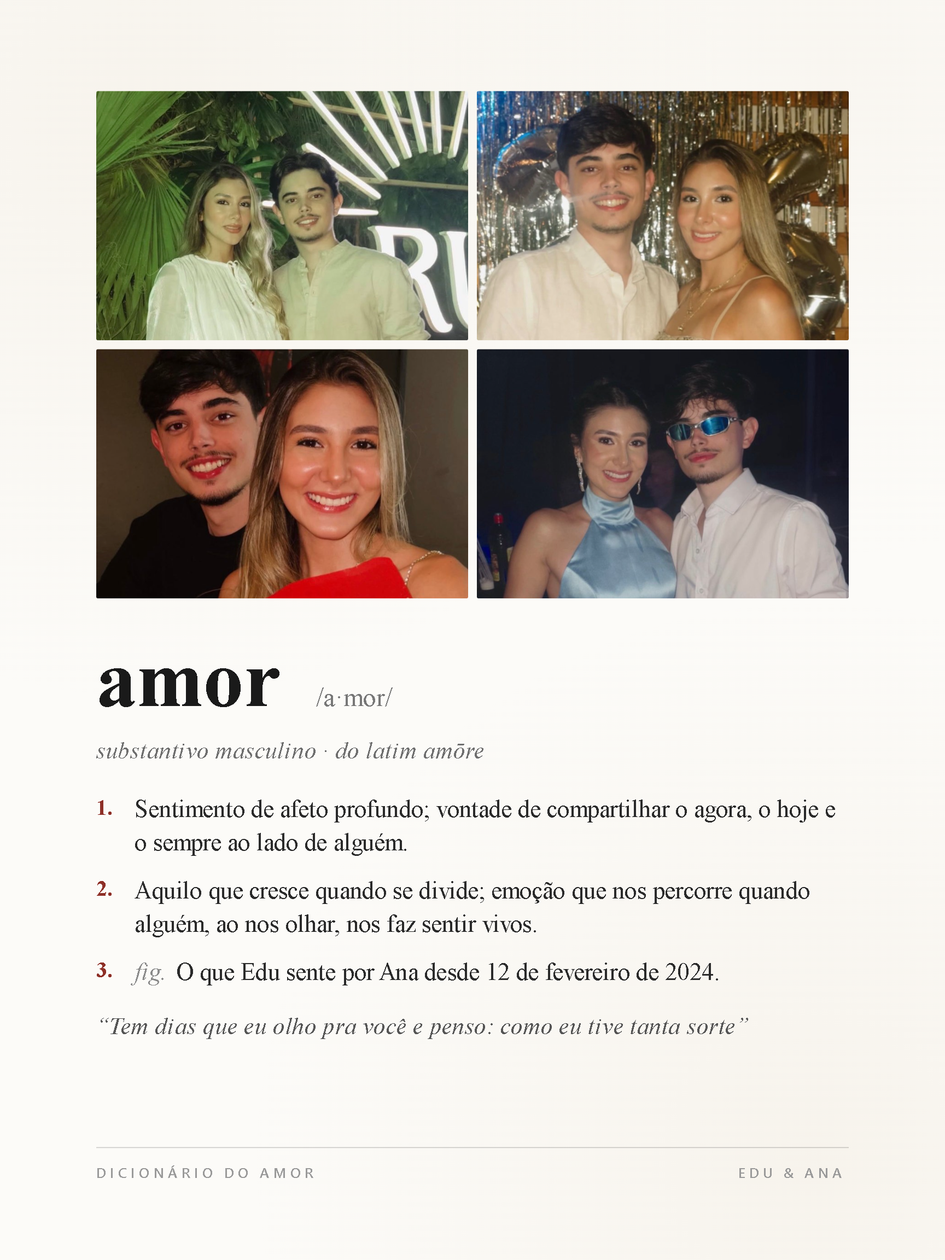
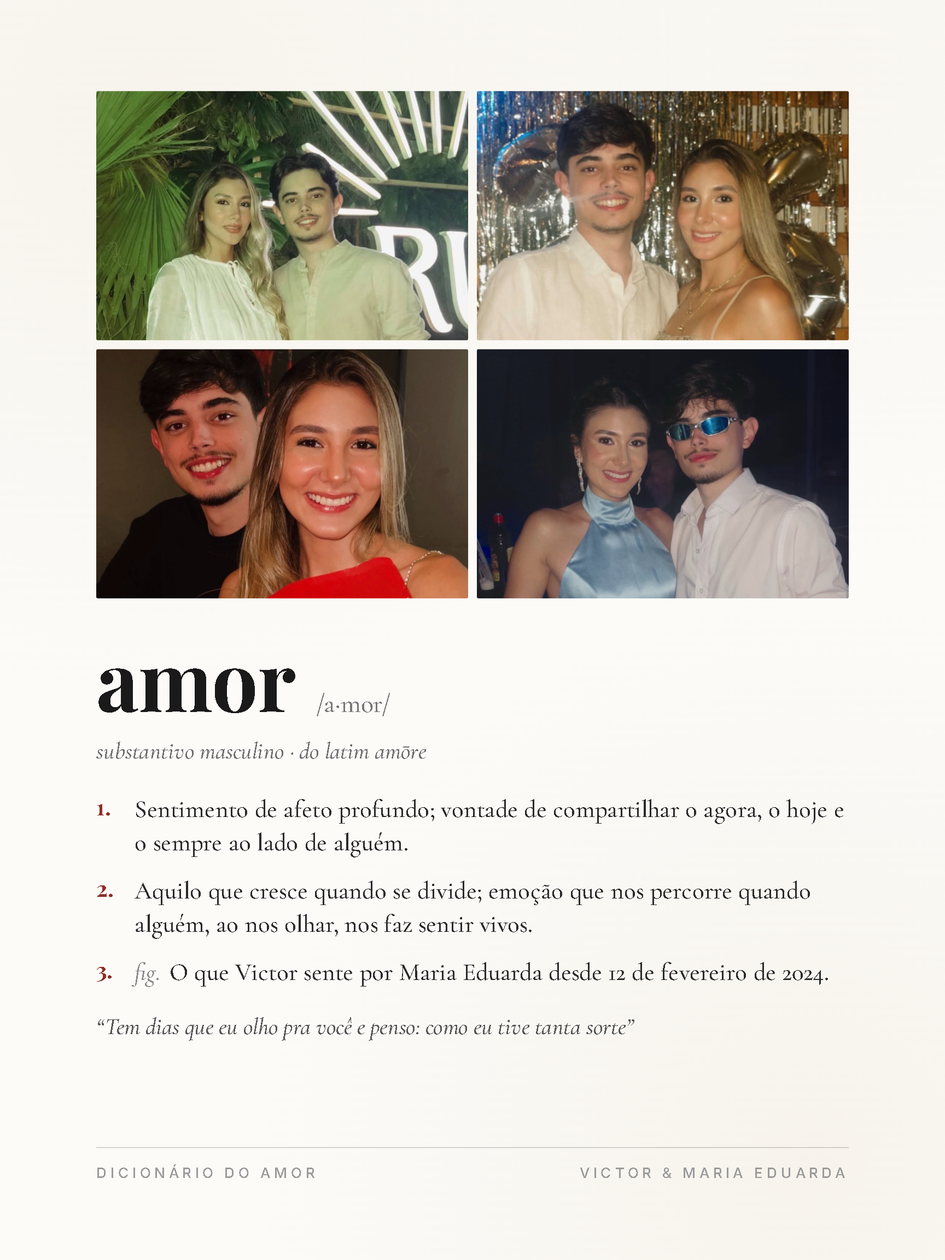
Personalizar o álbum para Victor e Maria Eduarda

diff --git a/_next/static/immutable/chunks/1nydtlq8dhacj.js b/_next/static/immutable/chunks/1nydtlq8dhacj.js
@@ -1,1 +1,1 @@
-(globalThis.TURBOPACK||(globalThis.TURBOPACK=[])).push([document.currentScript,796051,e=>{"use strict";var t=e.i(843476);e.i(271645);var r=e.i(772328);let i="#FBEFE2",n="#E0BC6A";e.s(["default",0,function(e){let{coupleName:a,year:o}=e,l=(a||"").trim(),s=o||new Date().getFullYear(),c=(0,r.useReducedMotion)(),u=e=>c?void 0:`lpcov-rise 0.9s cubic-bezier(0.22,0.61,0.36,1) ${e}s both`;return(0,t.jsxs)("div",{style:{position:"absolute",inset:0,pointerEvents:"none"},"aria-hidden":"true",children:[!c&&(0,t.jsx)("style",{children:"@keyframes lpcov-rise{from{opacity:0;transform:translateY(18px)}to{opacity:1;transform:translateY(0)}}@keyframes lpcov-rule{from{opacity:0;transform:scaleX(0)}to{opacity:1;transform:scaleX(1)}}@keyframes lpcov-glint{0%{transform:translateX(-100%)}55%{transform:translateX(260%)}100%{transform:translateX(260%)}}"}),(0,t.jsxs)("div",{style:{position:"absolute",top:"10.5%",left:0,right:0,display:"flex",flexDirection:"column",alignItems:"center",animation:u(.15)},children:[(0,t.jsx)("div",{style:{fontFamily:"'Inter', system-ui, sans-serif",fontSize:31,fontWeight:600,letterSpacing:"0.26em",marginRight:"-0.26em",textTransform:"uppercase",color:i,textAlign:"center",whiteSpace:"nowrap",textShadow:"0 1px 12px rgba(0,0,0,0.35)"},children:"O álbum da nossa história"}),(0,t.jsx)("span",{style:{position:"relative",overflow:"hidden",width:64,height:2,marginTop:15,opacity:.92,borderRadius:2,background:n,animation:c?void 0:"lpcov-rule 0.7s cubic-bezier(0.22,0.61,0.36,1) 0.55s both"},children:!c&&(0,t.jsx)("span",{style:{position:"absolute",top:0,bottom:0,left:0,width:"40%",background:`linear-gradient(90deg, ${n}00 0%, #FFF4D8 50%, ${n}00 100%)`,transform:"translateX(-100%)",animation:"lpcov-glint 7s ease-in-out 1.4s infinite"}})})]}),(0,t.jsx)("div",{style:{position:"absolute",left:0,right:0,bottom:0,height:"32%",background:"linear-gradient(to top, rgba(26,6,11,0.74) 4%, rgba(26,6,11,0.4) 46%, rgba(26,6,11,0) 100%)"}}),(0,t.jsxs)("div",{style:{position:"absolute",bottom:"5.5%",left:0,right:0,display:"flex",flexDirection:"column",alignItems:"center"},children:[l&&(0,t.jsx)("div",{style:{fontFamily:"'Cormorant Garamond', Georgia, serif",fontStyle:"italic",fontWeight:500,fontSize:80,lineHeight:1,color:i,textAlign:"center",paddingBottom:6,textShadow:"0 2px 16px rgba(0,0,0,0.45)",animation:u(.4)},children:l}),(0,t.jsxs)("div",{style:{display:"flex",alignItems:"center",gap:18,marginTop:20*!!l,animation:u(.62)},children:[(0,t.jsx)("span",{style:{width:38,height:1.5,background:n,opacity:.8}}),(0,t.jsx)("span",{style:{fontFamily:"'Bebas Neue', 'Oswald', sans-serif",fontSize:40,letterSpacing:"0.4em",marginRight:"-0.4em",color:n,fontVariantNumeric:"tabular-nums",textShadow:"0 1px 10px rgba(0,0,0,0.45)"},children:s}),(0,t.jsx)("span",{style:{width:38,height:1.5,background:n,opacity:.8}})]})]})]})}],796051)},166641,e=>{"use strict";let t={zoom:1,x:.5,y:.5};e.s(["COVER_BG",0,"#1a060b","DEFAULT_COVER_TRANSFORM",0,t,"REF_H",0,1527,"REF_W",0,1080,"coverPhotoRect",0,function(e,r,i,n,a){let o={...t,...a||{}},l=i||1,s=n||1,c=Math.max(e/l,r/s)*(o.zoom||1),u=l*c,d=s*c,h=e-u,g=r-d;return{width:u,height:d,left:(o.x??.5)*h,top:(o.y??.5)*g,rangeX:h,rangeY:g}}])},200916,e=>{"use strict";e.s(["loadCanvasImage",0,function(e){let{timeoutMs:t=0,proxy:r=!0}=arguments.length>1&&void 0!==arguments[1]?arguments[1]:{};return new Promise((i,n)=>{let a=!1,o=t?setTimeout(()=>{a=!0,n(Error("image timeout"))},t):0,l=(e,t)=>{a||(a=!0,clearTimeout(o),e?n(e):i(t))},s=(e,t)=>new Promise((r,i)=>{let n=new Image;t&&(n.crossOrigin="anonymous"),n.decoding="async",n.onload=()=>r(n),n.onerror=e=>i(e),n.src=e});"string"==typeof e&&/^https?:/i.test(e)?(async()=>{try{let t=await fetch(e,{mode:"cors",cache:"no-store",credentials:"omit"});if(!t.ok)throw Error(`HTTP ${t.status}`);let r=await t.blob(),i=URL.createObjectURL(r);try{let e=await s(i,!1);l(null,e)}finally{setTimeout(()=>URL.revokeObjectURL(i),0)}}catch(t){if(a)return;if(!r)return l(t);try{let t=await s(`/api/proxy-image?url=${encodeURIComponent(e)}`,!1);l(null,t)}catch(e){l(e)}}})():s(e,!/^(data|blob):/i.test(String(e))).then(e=>l(null,e),e=>l(e))})}])},616147,e=>{"use strict";var t=e.i(801431),r=e.i(370341),i=e.i(349165);let n=e=>(0,i.cdnUrl)(t.default[e]||e),a=e=>(0,i.cdnUrl)(r.default[e]||t.default[e]||e),o=a("/album/pages/1.png"),l=n("/album/pages/2.png"),s=a("/album/pages/10.png"),c=n("/album/bookCoverOverlay.jpg"),u=n("/album/bookOpenOverlay.jpg");e.s(["BACK_SRC",0,s,"COVER_OVERLAY",0,c,"COVER_SRC",0,o,"OPEN_OVERLAY",0,u,"PAGE_2_SRC",0,l,"albumDisplayImage",0,a,"albumImage",0,n])},370341,(e,t,r)=>{t.exports={"/album/pages/1.png":"/images/generated/v1/0cfeee3df7770b063efe2a69.webp","/album/pages/10.png":"/images/generated/v1/571676c4a112a60fe766f038.webp","/album/pages/2.png":"/images/generated/v1/57f60bcc16bc0d8c4d399310.webp","/album/placeholder":"/images/generated/v1/f9f2fb6deda9c474941d078c.webp"}},959998,e=>{"use strict";var t=e.i(843476),r=e.i(271645);let i=(0,e.i(323272).noiseTile)({size:220,rgb:[186,186,186],mean:4.025,sd:.9450000000000001,seed:0x51f15eed}),n="radial-gradient(120% 90% at 50% 46%, rgba(0,0,0,0) 48%, rgba(0,0,0,0.55) 100%)";function a(e){let{color:i,style:n,strength:a=1}=e,[o,s]=(0,r.useState)(()=>({a:i,b:null,top:"a"})),[c,u]=(0,r.useState)(i);i!==c&&(u(i),s(e=>"a"===e.top?{a:e.a,b:i,top:"b"}:{a:i,b:e.b,top:"a"}));let d=(e,r)=>(0,t.jsx)("div",{"aria-hidden":"true",style:{position:"absolute",left:0,top:0,width:"25%",height:"25%",transform:"scale(4)",transformOrigin:"0 0",borderRadius:"50%",background:e?`radial-gradient(closest-side, ${l(e,.62)} 0%, ${l(e,.36)} 45%, ${l(e,.1)} 75%, ${l(e,0)} 100%)`:"none",opacity:e&&r?a:0,transition:"opacity 1.6s cubic-bezier(.4,0,.2,1)"}});return(0,t.jsxs)("div",{"aria-hidden":"true",style:{position:"absolute",pointerEvents:"none",...n},children:[d(o.a,"a"===o.top),d(o.b,"b"===o.top)]})}let o=new Map;function l(e,t){let r=o.get(e);if(!r){let i=/^#?([0-9a-f]{6})$/i.exec(String(e||""));if(!i)return`rgba(0,0,0,${t})`;let n=parseInt(i[1],16),a=(n>>16&255)/255,l=(n>>8&255)/255,s=(255&n)/255,c=Math.max(a,l,s),u=Math.min(a,l,s),d=(c+u)/2,h=c-u,g=0,f=0===h?0:h/(1-Math.abs(2*d-1));h&&(g=(c===a?((l-s)/h+6)%6:c===l?(s-a)/h+2:(a-l)/h+4)*60);let p=Math.min(.62,Math.max(.5,d)),m=(1-Math.abs(2*p-1))*Math.min(.62,Math.max(.25,f)),v=m*(1-Math.abs(g/60%2-1)),b=p-m/2,[y,w,R]=g<60?[m,v,0]:g<120?[v,m,0]:g<180?[0,m,v]:g<240?[0,v,m]:g<300?[v,0,m]:[m,0,v];r=[y,w,R].map(e=>Math.round((e+b)*255)).join(","),o.set(e,r)}return`rgba(${r},${t})`}e.s(["STAGE",0,{base:"#120b0d",text:"#EFE6DA",muted:"rgba(239,230,218,0.58)",faint:"rgba(239,230,218,0.2)",accent:"#D3B27A",gold:"#D3B27A",goldDeep:"#9C7F4E"},"UI_FONT",0,"var(--font-manrope), 'Manrope', system-ui, -apple-system, 'Segoe UI', sans-serif","default",0,function(e){let{glow:o,open:l,mobile:s}=e,{left:c,right:u,center:d}=o||{},[h]=(0,r.useState)(()=>Math.min(3,Math.max(1,Math.round(window.devicePixelRatio||1))));return(0,t.jsxs)("div",{"aria-hidden":"true",style:{position:"absolute",inset:0,zIndex:0,pointerEvents:"none",overflow:"hidden"},children:[(0,t.jsx)("div",{style:{position:"absolute",inset:0,background:"radial-gradient(115% 85% at 50% 45%, #2a171c 0%, #1a0e12 46%, #0b0608 100%)"}}),(0,t.jsx)(a,{color:d,strength:.4,style:{left:"50%",top:"50%",width:s?"150vw":"74vw",height:s?"84vh":"96vh",transform:"translate(-50%, -52%)"}}),!s&&(0,t.jsx)(a,{color:c,strength:.34,style:{left:"31%",top:"50%",width:"52vw",height:"92vh",transform:"translate(-50%, -52%)"}}),!s&&(0,t.jsx)(a,{color:u,strength:.34,style:{left:"69%",top:"50%",width:"52vw",height:"92vh",transform:"translate(-50%, -52%)"}}),(0,t.jsx)("div",{style:{position:"absolute",left:"50%",top:"50%",width:`calc(${s?"150vw":l?"96vw":"66vw"} / 4)`,height:`calc(${s?"70vh":"90vh"} / 4)`,transformOrigin:"0 0",transform:"translate(-200%, -192%) scale(4)",background:"radial-gradient(closest-side, rgba(255,226,200,0.07) 0%, rgba(255,226,200,0.025) 55%, rgba(255,226,200,0) 100%)",transition:"width 1.1s cubic-bezier(.22,1,.36,1)"}}),(0,t.jsx)("div",{style:{position:"absolute",left:0,top:0,width:`${(100/h).toFixed(4)}%`,height:`${(100/h).toFixed(4)}%`,transform:h>1?`scale(${h})`:void 0,transformOrigin:"0 0",backgroundImage:i?`${n}, ${i}`:n,backgroundSize:i?`100% 100%, ${220/h}px ${220/h}px`:"100% 100%",backgroundRepeat:i?"no-repeat, repeat":"no-repeat"}})]})}])},89786,e=>{"use strict";var t=e.i(271645),r=e.i(198702);let i=/Instagram|FBAN|FBAV|FB_IAB|FBIOS|TikTok|musical_ly|BytedanceWebview|ByteLocale|Snapchat|LinkedInApp|Pinterest|Line\//i;function n(){let e=arguments.length>0&&void 0!==arguments[0]?arguments[0]:"u"<typeof navigator?"":navigator.userAgent||"";return i.test(e)||(0,r.needsCanvasVideo)()}e.s(["isHostedBrowser",0,n,"useSwipeGuard",0,function(e){(0,t.useEffect)(()=>{let t=null==e?void 0:e.current;if(!t||!(navigator.maxTouchPoints>0||"ontouchstart"in window)||!n())return;let r=document.documentElement,i=r.style.overscrollBehaviorX;r.style.overscrollBehaviorX="none";let a=null,o=e=>{let t=e.touches[0];a=t?{x:t.clientX,y:t.clientY}:null,t&&e.cancelable&&!(e.target instanceof Element&&e.target.closest("button, a, input, select, textarea, label, [role='switch'], [role='tab']"))&&function(e,t){let r=arguments.length>2&&void 0!==arguments[2]?arguments[2]:32;return t>0&&(e<=r||e>=t-r)}(t.clientX,window.innerWidth)&&e.preventDefault()},l=e=>{let t=e.touches[0];a&&t&&e.cancelable&&function(e,t,r,i){let n=arguments.length>4&&void 0!==arguments[4]?arguments[4]:6,a=Math.abs(r-e);return a>=n&&a>Math.abs(i-t)}(a.x,a.y,t.clientX,t.clientY)&&e.preventDefault()},s=()=>{a=null};return t.addEventListener("touchstart",o,{passive:!1}),t.addEventListener("touchmove",l,{passive:!1}),t.addEventListener("touchend",s),t.addEventListener("touchcancel",s),()=>{t.removeEventListener("touchstart",o),t.removeEventListener("touchmove",l),t.removeEventListener("touchend",s),t.removeEventListener("touchcancel",s),r.style.overscrollBehaviorX=i}},[e])}])}]);
+(globalThis.TURBOPACK||(globalThis.TURBOPACK=[])).push([document.currentScript,796051,e=>{"use strict";var t=e.i(843476);e.i(271645);var r=e.i(772328);let i="#FBEFE2",n="#E0BC6A";e.s(["default",0,function(e){let{coupleName:a,year:o}=e,l=(a||"").trim(),s=o||new Date().getFullYear(),c=(0,r.useReducedMotion)(),u=e=>c?void 0:`lpcov-rise 0.9s cubic-bezier(0.22,0.61,0.36,1) ${e}s both`;return(0,t.jsxs)("div",{style:{position:"absolute",inset:0,pointerEvents:"none"},"aria-hidden":"true",children:[!c&&(0,t.jsx)("style",{children:"@keyframes lpcov-rise{from{opacity:0;transform:translateY(18px)}to{opacity:1;transform:translateY(0)}}@keyframes lpcov-rule{from{opacity:0;transform:scaleX(0)}to{opacity:1;transform:scaleX(1)}}@keyframes lpcov-glint{0%{transform:translateX(-100%)}55%{transform:translateX(260%)}100%{transform:translateX(260%)}}"}),(0,t.jsxs)("div",{style:{position:"absolute",top:"10.5%",left:0,right:0,display:"flex",flexDirection:"column",alignItems:"center",animation:u(.15)},children:[(0,t.jsx)("div",{style:{fontFamily:"'Inter', system-ui, sans-serif",fontSize:31,fontWeight:600,letterSpacing:"0.26em",marginRight:"-0.26em",textTransform:"uppercase",color:i,textAlign:"center",whiteSpace:"nowrap",textShadow:"0 1px 12px rgba(0,0,0,0.35)"},children:"O álbum da nossa história"}),(0,t.jsx)("span",{style:{position:"relative",overflow:"hidden",width:64,height:2,marginTop:15,opacity:.92,borderRadius:2,background:n,animation:c?void 0:"lpcov-rule 0.7s cubic-bezier(0.22,0.61,0.36,1) 0.55s both"},children:!c&&(0,t.jsx)("span",{style:{position:"absolute",top:0,bottom:0,left:0,width:"40%",background:`linear-gradient(90deg, ${n}00 0%, #FFF4D8 50%, ${n}00 100%)`,transform:"translateX(-100%)",animation:"lpcov-glint 7s ease-in-out 1.4s infinite"}})})]}),(0,t.jsx)("div",{style:{position:"absolute",left:0,right:0,bottom:0,height:"32%",background:"linear-gradient(to top, rgba(26,6,11,0.74) 4%, rgba(26,6,11,0.4) 46%, rgba(26,6,11,0) 100%)"}}),(0,t.jsxs)("div",{style:{position:"absolute",bottom:"5.5%",left:0,right:0,display:"flex",flexDirection:"column",alignItems:"center"},children:[l&&(0,t.jsx)("div",{style:{fontFamily:"'Cormorant Garamond', Georgia, serif",fontStyle:"italic",fontWeight:500,fontSize:52,lineHeight:1.1,color:i,textAlign:"center",whiteSpace:"nowrap",paddingBottom:6,textShadow:"0 2px 16px rgba(0,0,0,0.45)",animation:u(.4)},children:l}),(0,t.jsxs)("div",{style:{display:"flex",alignItems:"center",gap:18,marginTop:20*!!l,animation:u(.62)},children:[(0,t.jsx)("span",{style:{width:38,height:1.5,background:n,opacity:.8}}),(0,t.jsx)("span",{style:{fontFamily:"'Bebas Neue', 'Oswald', sans-serif",fontSize:40,letterSpacing:"0.4em",marginRight:"-0.4em",color:n,fontVariantNumeric:"tabular-nums",textShadow:"0 1px 10px rgba(0,0,0,0.45)"},children:s}),(0,t.jsx)("span",{style:{width:38,height:1.5,background:n,opacity:.8}})]})]})]})}],796051)},166641,e=>{"use strict";let t={zoom:1,x:.5,y:.5};e.s(["COVER_BG",0,"#1a060b","DEFAULT_COVER_TRANSFORM",0,t,"REF_H",0,1527,"REF_W",0,1080,"coverPhotoRect",0,function(e,r,i,n,a){let o={...t,...a||{}},l=i||1,s=n||1,c=Math.max(e/l,r/s)*(o.zoom||1),u=l*c,d=s*c,h=e-u,g=r-d;return{width:u,height:d,left:(o.x??.5)*h,top:(o.y??.5)*g,rangeX:h,rangeY:g}}])},200916,e=>{"use strict";e.s(["loadCanvasImage",0,function(e){let{timeoutMs:t=0,proxy:r=!0}=arguments.length>1&&void 0!==arguments[1]?arguments[1]:{};return new Promise((i,n)=>{let a=!1,o=t?setTimeout(()=>{a=!0,n(Error("image timeout"))},t):0,l=(e,t)=>{a||(a=!0,clearTimeout(o),e?n(e):i(t))},s=(e,t)=>new Promise((r,i)=>{let n=new Image;t&&(n.crossOrigin="anonymous"),n.decoding="async",n.onload=()=>r(n),n.onerror=e=>i(e),n.src=e});"string"==typeof e&&/^https?:/i.test(e)?(async()=>{try{let t=await fetch(e,{mode:"cors",cache:"no-store",credentials:"omit"});if(!t.ok)throw Error(`HTTP ${t.status}`);let r=await t.blob(),i=URL.createObjectURL(r);try{let e=await s(i,!1);l(null,e)}finally{setTimeout(()=>URL.revokeObjectURL(i),0)}}catch(t){if(a)return;if(!r)return l(t);try{let t=await s(`/api/proxy-image?url=${encodeURIComponent(e)}`,!1);l(null,t)}catch(e){l(e)}}})():s(e,!/^(data|blob):/i.test(String(e))).then(e=>l(null,e),e=>l(e))})}])},616147,e=>{"use strict";var t=e.i(801431),r=e.i(370341),i=e.i(349165);let n=e=>(0,i.cdnUrl)(t.default[e]||e),a=e=>(0,i.cdnUrl)(r.default[e]||t.default[e]||e),o=a("/album/pages/1.png"),l=n("/album/pages/2.png"),s=a("/album/pages/10.png"),c=n("/album/bookCoverOverlay.jpg"),u=n("/album/bookOpenOverlay.jpg");e.s(["BACK_SRC",0,s,"COVER_OVERLAY",0,c,"COVER_SRC",0,o,"OPEN_OVERLAY",0,u,"PAGE_2_SRC",0,l,"albumDisplayImage",0,a,"albumImage",0,n])},370341,(e,t,r)=>{t.exports={"/album/pages/1.png":"/images/generated/v1/0cfeee3df7770b063efe2a69.webp","/album/pages/10.png":"/images/generated/v1/571676c4a112a60fe766f038.webp","/album/pages/2.png":"/images/generated/v1/57f60bcc16bc0d8c4d399310.webp","/album/placeholder":"/images/generated/v1/f9f2fb6deda9c474941d078c.webp"}},959998,e=>{"use strict";var t=e.i(843476),r=e.i(271645);let i=(0,e.i(323272).noiseTile)({size:220,rgb:[186,186,186],mean:4.025,sd:.9450000000000001,seed:0x51f15eed}),n="radial-gradient(120% 90% at 50% 46%, rgba(0,0,0,0) 48%, rgba(0,0,0,0.55) 100%)";function a(e){let{color:i,style:n,strength:a=1}=e,[o,s]=(0,r.useState)(()=>({a:i,b:null,top:"a"})),[c,u]=(0,r.useState)(i);i!==c&&(u(i),s(e=>"a"===e.top?{a:e.a,b:i,top:"b"}:{a:i,b:e.b,top:"a"}));let d=(e,r)=>(0,t.jsx)("div",{"aria-hidden":"true",style:{position:"absolute",left:0,top:0,width:"25%",height:"25%",transform:"scale(4)",transformOrigin:"0 0",borderRadius:"50%",background:e?`radial-gradient(closest-side, ${l(e,.62)} 0%, ${l(e,.36)} 45%, ${l(e,.1)} 75%, ${l(e,0)} 100%)`:"none",opacity:e&&r?a:0,transition:"opacity 1.6s cubic-bezier(.4,0,.2,1)"}});return(0,t.jsxs)("div",{"aria-hidden":"true",style:{position:"absolute",pointerEvents:"none",...n},children:[d(o.a,"a"===o.top),d(o.b,"b"===o.top)]})}let o=new Map;function l(e,t){let r=o.get(e);if(!r){let i=/^#?([0-9a-f]{6})$/i.exec(String(e||""));if(!i)return`rgba(0,0,0,${t})`;let n=parseInt(i[1],16),a=(n>>16&255)/255,l=(n>>8&255)/255,s=(255&n)/255,c=Math.max(a,l,s),u=Math.min(a,l,s),d=(c+u)/2,h=c-u,g=0,f=0===h?0:h/(1-Math.abs(2*d-1));h&&(g=(c===a?((l-s)/h+6)%6:c===l?(s-a)/h+2:(a-l)/h+4)*60);let p=Math.min(.62,Math.max(.5,d)),m=(1-Math.abs(2*p-1))*Math.min(.62,Math.max(.25,f)),v=m*(1-Math.abs(g/60%2-1)),b=p-m/2,[y,w,R]=g<60?[m,v,0]:g<120?[v,m,0]:g<180?[0,m,v]:g<240?[0,v,m]:g<300?[v,0,m]:[m,0,v];r=[y,w,R].map(e=>Math.round((e+b)*255)).join(","),o.set(e,r)}return`rgba(${r},${t})`}e.s(["STAGE",0,{base:"#120b0d",text:"#EFE6DA",muted:"rgba(239,230,218,0.58)",faint:"rgba(239,230,218,0.2)",accent:"#D3B27A",gold:"#D3B27A",goldDeep:"#9C7F4E"},"UI_FONT",0,"var(--font-manrope), 'Manrope', system-ui, -apple-system, 'Segoe UI', sans-serif","default",0,function(e){let{glow:o,open:l,mobile:s}=e,{left:c,right:u,center:d}=o||{},[h]=(0,r.useState)(()=>Math.min(3,Math.max(1,Math.round(window.devicePixelRatio||1))));return(0,t.jsxs)("div",{"aria-hidden":"true",style:{position:"absolute",inset:0,zIndex:0,pointerEvents:"none",overflow:"hidden"},children:[(0,t.jsx)("div",{style:{position:"absolute",inset:0,background:"radial-gradient(115% 85% at 50% 45%, #2a171c 0%, #1a0e12 46%, #0b0608 100%)"}}),(0,t.jsx)(a,{color:d,strength:.4,style:{left:"50%",top:"50%",width:s?"150vw":"74vw",height:s?"84vh":"96vh",transform:"translate(-50%, -52%)"}}),!s&&(0,t.jsx)(a,{color:c,strength:.34,style:{left:"31%",top:"50%",width:"52vw",height:"92vh",transform:"translate(-50%, -52%)"}}),!s&&(0,t.jsx)(a,{color:u,strength:.34,style:{left:"69%",top:"50%",width:"52vw",height:"92vh",transform:"translate(-50%, -52%)"}}),(0,t.jsx)("div",{style:{position:"absolute",left:"50%",top:"50%",width:`calc(${s?"150vw":l?"96vw":"66vw"} / 4)`,height:`calc(${s?"70vh":"90vh"} / 4)`,transformOrigin:"0 0",transform:"translate(-200%, -192%) scale(4)",background:"radial-gradient(closest-side, rgba(255,226,200,0.07) 0%, rgba(255,226,200,0.025) 55%, rgba(255,226,200,0) 100%)",transition:"width 1.1s cubic-bezier(.22,1,.36,1)"}}),(0,t.jsx)("div",{style:{position:"absolute",left:0,top:0,width:`${(100/h).toFixed(4)}%`,height:`${(100/h).toFixed(4)}%`,transform:h>1?`scale(${h})`:void 0,transformOrigin:"0 0",backgroundImage:i?`${n}, ${i}`:n,backgroundSize:i?`100% 100%, ${220/h}px ${220/h}px`:"100% 100%",backgroundRepeat:i?"no-repeat, repeat":"no-repeat"}})]})}])},89786,e=>{"use strict";var t=e.i(271645),r=e.i(198702);let i=/Instagram|FBAN|FBAV|FB_IAB|FBIOS|TikTok|musical_ly|BytedanceWebview|ByteLocale|Snapchat|LinkedInApp|Pinterest|Line\//i;function n(){let e=arguments.length>0&&void 0!==arguments[0]?arguments[0]:"u"<typeof navigator?"":navigator.userAgent||"";return i.test(e)||(0,r.needsCanvasVideo)()}e.s(["isHostedBrowser",0,n,"useSwipeGuard",0,function(e){(0,t.useEffect)(()=>{let t=null==e?void 0:e.current;if(!t||!(navigator.maxTouchPoints>0||"ontouchstart"in window)||!n())return;let r=document.documentElement,i=r.style.overscrollBehaviorX;r.style.overscrollBehaviorX="none";let a=null,o=e=>{let t=e.touches[0];a=t?{x:t.clientX,y:t.clientY}:null,t&&e.cancelable&&!(e.target instanceof Element&&e.target.closest("button, a, input, select, textarea, label, [role='switch'], [role='tab']"))&&function(e,t){let r=arguments.length>2&&void 0!==arguments[2]?arguments[2]:32;return t>0&&(e<=r||e>=t-r)}(t.clientX,window.innerWidth)&&e.preventDefault()},l=e=>{let t=e.touches[0];a&&t&&e.cancelable&&function(e,t,r,i){let n=arguments.length>4&&void 0!==arguments[4]?arguments[4]:6,a=Math.abs(r-e);return a>=n&&a>Math.abs(i-t)}(a.x,a.y,t.clientX,t.clientY)&&e.preventDefault()},s=()=>{a=null};return t.addEventListener("touchstart",o,{passive:!1}),t.addEventListener("touchmove",l,{passive:!1}),t.addEventListener("touchend",s),t.addEventListener("touchcancel",s),()=>{t.removeEventListener("touchstart",o),t.removeEventListener("touchmove",l),t.removeEventListener("touchend",s),t.removeEventListener("touchcancel",s),r.style.overscrollBehaviorX=i}},[e])}])}]);

diff --git a/index.html b/index.html
@@ -1,4 +1,4 @@
-<!doctype html><html lang="pt-BR"><head><meta charset="utf-8"><meta name="viewport" content="width=device-width,initial-scale=1,viewport-fit=cover"><title>Edu &amp; Ana — Álbum</title><link rel="stylesheet" href="/_next/static/immutable/chunks/0p6lbnjdpds4d.css"><link rel="stylesheet" href="/_next/static/immutable/chunks/25a4zebliu7z2.css"><link rel="stylesheet" href="/_next/static/immutable/chunks/1sqow8secg5xa.css"><link rel="stylesheet" href="/_next/static/immutable/chunks/3ff-akah7lfv2.css"><link rel="stylesheet" href="/_next/static/immutable/chunks/0ikh5jz_gj27k.css"><link rel="stylesheet" href="/_next/static/immutable/chunks/3y9f76ve8t-ou.css"><link rel="stylesheet" href="/assets/album-fonts.css"><style>body{margin:0;background:#120b0d;font-family:Manrope,Inter,sans-serif;color:#efe6da}button{font:inherit}#intro{height:100dvh;display:flex;flex-direction:column;align-items:center;justify-content:center;gap:16px;background:radial-gradient(ellipse,#341c24,#120b0d)}#intro img{height:min(52vh,440px);box-shadow:0 22px 80px #0009;transform:perspective(1000px) rotateY(-8deg)}#intro h1{font-size:clamp(22px,3vw,34px);font-weight:500;text-align:center;margin:0 20px}#intro p{margin:0;color:#a69c9a;font-size:13px}#intro button{border:1px solid #d3b27a;border-radius:3px;padding:14px 28px;background:#efe6da;color:#35121c;cursor:pointer}</style><script src="/replica-runtime.js"></script><link rel="stylesheet" href="/_next/static/immutable/chunks/1dlurqp6gzkjb.css"><link rel="stylesheet" href="/_next/static/immutable/chunks/3u715uz24qox7.css"></head><body class="manrope_ee67eb7d-module__lv8keG__variable poppins_bea2d2a5-module__QaPHPW__variable inter_21233fa3-module__fR18SW__variable font-inter"><div id="album-root"></div><script src="/_next/static/immutable/chunks/12wbr0dn6tigx.js"></script>
+<!doctype html><html lang="pt-BR"><head><meta charset="utf-8"><meta name="viewport" content="width=device-width,initial-scale=1,viewport-fit=cover"><title>Victor &amp; Maria Eduarda — Álbum</title><link rel="stylesheet" href="/_next/static/immutable/chunks/0p6lbnjdpds4d.css"><link rel="stylesheet" href="/_next/static/immutable/chunks/25a4zebliu7z2.css"><link rel="stylesheet" href="/_next/static/immutable/chunks/1sqow8secg5xa.css"><link rel="stylesheet" href="/_next/static/immutable/chunks/3ff-akah7lfv2.css"><link rel="stylesheet" href="/_next/static/immutable/chunks/0ikh5jz_gj27k.css"><link rel="stylesheet" href="/_next/static/immutable/chunks/3y9f76ve8t-ou.css"><link rel="stylesheet" href="/assets/album-fonts.css"><style>body{margin:0;background:#120b0d;font-family:Manrope,Inter,sans-serif;color:#efe6da}button{font:inherit}#intro{height:100dvh;display:flex;flex-direction:column;align-items:center;justify-content:center;gap:16px;background:radial-gradient(ellipse,#341c24,#120b0d)}#intro img{height:min(52vh,440px);box-shadow:0 22px 80px #0009;transform:perspective(1000px) rotateY(-8deg)}#intro h1{font-size:clamp(22px,3vw,34px);font-weight:500;text-align:center;margin:0 20px}#intro p{margin:0;color:#a69c9a;font-size:13px}#intro button{border:1px solid #d3b27a;border-radius:3px;padding:14px 28px;background:#efe6da;color:#35121c;cursor:pointer}</style><script src="/replica-runtime.js"></script><link rel="stylesheet" href="/_next/static/immutable/chunks/1dlurqp6gzkjb.css"><link rel="stylesheet" href="/_next/static/immutable/chunks/3u715uz24qox7.css"></head><body class="manrope_ee67eb7d-module__lv8keG__variable poppins_bea2d2a5-module__QaPHPW__variable inter_21233fa3-module__fR18SW__variable font-inter"><div id="album-root"></div><script src="/_next/static/immutable/chunks/12wbr0dn6tigx.js"></script>
 <script src="/_next/static/immutable/chunks/3bex43uixysyl.js"></script>
 <script src="/_next/static/immutable/chunks/0nsdss2lejntc.js"></script>
 <script src="/_next/static/immutable/chunks/0ph86ehpgos4f.js"></script>
@@ -10,7 +10,7 @@
 <script src="/_next/static/immutable/chunks/04vredjty_vaw.js"></script>
 <script src="/_next/static/immutable/chunks/3t_25mjwdxb-i.js"></script>
 <script src="/_next/static/immutable/chunks/05725a4dbr6eu.js"></script>
-<script src="/_next/static/immutable/chunks/1nydtlq8dhacj.js"></script>
+<script src="/_next/static/immutable/chunks/1nydtlq8dhacj.js?v=victor-maria"></script>
 <script src="/_next/static/immutable/chunks/0e-bq8y_ey8d4.js"></script>
 <script src="/_next/static/immutable/chunks/2x35d5-4wf8-q.js"></script>
 <script src="/_next/static/immutable/chunks/3lea4frf7hfxl.js"></script>
@@ -51,4 +51,4 @@
 <script src="/_next/static/immutable/chunks/0dyvft6u7n52f.js"></script>
 <script src="/_next/static/immutable/chunks/210dvu3fclup0.js"></script>
 <script src="/_next/static/immutable/chunks/2qwrxfixmatba.js"></script>
-<script src="/_next/static/immutable/chunks/12cq91-_38gu2.js"></script><script src="/viewer/entry.js"></script><script src="/_next/static/immutable/chunks/album-runtime.js"></script></body></html>
+<script src="/_next/static/immutable/chunks/12cq91-_38gu2.js"></script><script src="/viewer/entry.js?v=victor-maria"></script><script src="/_next/static/immutable/chunks/album-runtime.js"></script></body></html>

diff --git a/presente/edu-ana-43e26386/index.html b/presente/edu-ana-43e26386/index.html
@@ -1,4 +1,4 @@
-<!doctype html><html lang="pt-BR"><head><meta charset="utf-8"><meta name="viewport" content="width=device-width,initial-scale=1,viewport-fit=cover"><title>Edu &amp; Ana — Álbum</title><link rel="stylesheet" href="/_next/static/immutable/chunks/0p6lbnjdpds4d.css"><link rel="stylesheet" href="/_next/static/immutable/chunks/25a4zebliu7z2.css"><link rel="stylesheet" href="/_next/static/immutable/chunks/1sqow8secg5xa.css"><link rel="stylesheet" href="/_next/static/immutable/chunks/3ff-akah7lfv2.css"><link rel="stylesheet" href="/_next/static/immutable/chunks/0ikh5jz_gj27k.css"><link rel="stylesheet" href="/_next/static/immutable/chunks/3y9f76ve8t-ou.css"><link rel="stylesheet" href="/assets/album-fonts.css"><style>body{margin:0;background:#120b0d;font-family:Manrope,Inter,sans-serif;color:#efe6da}button{font:inherit}#intro{height:100dvh;display:flex;flex-direction:column;align-items:center;justify-content:center;gap:16px;background:radial-gradient(ellipse,#341c24,#120b0d)}#intro img{height:min(52vh,440px);box-shadow:0 22px 80px #0009;transform:perspective(1000px) rotateY(-8deg)}#intro h1{font-size:clamp(22px,3vw,34px);font-weight:500;text-align:center;margin:0 20px}#intro p{margin:0;color:#a69c9a;font-size:13px}#intro button{border:1px solid #d3b27a;border-radius:3px;padding:14px 28px;background:#efe6da;color:#35121c;cursor:pointer}</style><script src="/replica-runtime.js"></script><link rel="stylesheet" href="/_next/static/immutable/chunks/1dlurqp6gzkjb.css"><link rel="stylesheet" href="/_next/static/immutable/chunks/3u715uz24qox7.css"></head><body class="manrope_ee67eb7d-module__lv8keG__variable poppins_bea2d2a5-module__QaPHPW__variable inter_21233fa3-module__fR18SW__variable font-inter"><div id="album-root"></div><script src="/_next/static/immutable/chunks/12wbr0dn6tigx.js"></script>
+<!doctype html><html lang="pt-BR"><head><meta charset="utf-8"><meta name="viewport" content="width=device-width,initial-scale=1,viewport-fit=cover"><title>Victor &amp; Maria Eduarda — Álbum</title><link rel="stylesheet" href="/_next/static/immutable/chunks/0p6lbnjdpds4d.css"><link rel="stylesheet" href="/_next/static/immutable/chunks/25a4zebliu7z2.css"><link rel="stylesheet" href="/_next/static/immutable/chunks/1sqow8secg5xa.css"><link rel="stylesheet" href="/_next/static/immutable/chunks/3ff-akah7lfv2.css"><link rel="stylesheet" href="/_next/static/immutable/chunks/0ikh5jz_gj27k.css"><link rel="stylesheet" href="/_next/static/immutable/chunks/3y9f76ve8t-ou.css"><link rel="stylesheet" href="/assets/album-fonts.css"><style>body{margin:0;background:#120b0d;font-family:Manrope,Inter,sans-serif;color:#efe6da}button{font:inherit}#intro{height:100dvh;display:flex;flex-direction:column;align-items:center;justify-content:center;gap:16px;background:radial-gradient(ellipse,#341c24,#120b0d)}#intro img{height:min(52vh,440px);box-shadow:0 22px 80px #0009;transform:perspective(1000px) rotateY(-8deg)}#intro h1{font-size:clamp(22px,3vw,34px);font-weight:500;text-align:center;margin:0 20px}#intro p{margin:0;color:#a69c9a;font-size:13px}#intro button{border:1px solid #d3b27a;border-radius:3px;padding:14px 28px;background:#efe6da;color:#35121c;cursor:pointer}</style><script src="/replica-runtime.js"></script><link rel="stylesheet" href="/_next/static/immutable/chunks/1dlurqp6gzkjb.css"><link rel="stylesheet" href="/_next/static/immutable/chunks/3u715uz24qox7.css"></head><body class="manrope_ee67eb7d-module__lv8keG__variable poppins_bea2d2a5-module__QaPHPW__variable inter_21233fa3-module__fR18SW__variable font-inter"><div id="album-root"></div><script src="/_next/static/immutable/chunks/12wbr0dn6tigx.js"></script>
 <script src="/_next/static/immutable/chunks/3bex43uixysyl.js"></script>
 <script src="/_next/static/immutable/chunks/0nsdss2lejntc.js"></script>
 <script src="/_next/static/immutable/chunks/0ph86ehpgos4f.js"></script>
@@ -10,7 +10,7 @@
 <script src="/_next/static/immutable/chunks/04vredjty_vaw.js"></script>
 <script src="/_next/static/immutable/chunks/3t_25mjwdxb-i.js"></script>
 <script src="/_next/static/immutable/chunks/05725a4dbr6eu.js"></script>
-<script src="/_next/static/immutable/chunks/1nydtlq8dhacj.js"></script>
+<script src="/_next/static/immutable/chunks/1nydtlq8dhacj.js?v=victor-maria"></script>
 <script src="/_next/static/immutable/chunks/0e-bq8y_ey8d4.js"></script>
 <script src="/_next/static/immutable/chunks/2x35d5-4wf8-q.js"></script>
 <script src="/_next/static/immutable/chunks/3lea4frf7hfxl.js"></script>
@@ -51,4 +51,4 @@
 <script src="/_next/static/immutable/chunks/0dyvft6u7n52f.js"></script>
 <script src="/_next/static/immutable/chunks/210dvu3fclup0.js"></script>
 <script src="/_next/static/immutable/chunks/2qwrxfixmatba.js"></script>
-<script src="/_next/static/immutable/chunks/12cq91-_38gu2.js"></script><script src="/viewer/entry.js"></script><script src="/_next/static/immutable/chunks/album-runtime.js"></script></body></html>
+<script src="/_next/static/immutable/chunks/12cq91-_38gu2.js"></script><script src="/viewer/entry.js?v=victor-maria"></script><script src="/_next/static/immutable/chunks/album-runtime.js"></script></body></html>

diff --git a/viewer/entry.js b/viewer/entry.js
@@ -1,9 +1,9 @@
 (globalThis.TURBOPACK||(globalThis.TURBOPACK=[])).push([document.currentScript,990001,e=>{
   const React=e.i(271645),DOM=e.r(88014),Viewer=e.i(413019).default,Provider=e.i(755287).I18nProvider;
-  Promise.all([fetch('/data/album.json').then(r=>r.json()),fetch('/data/viewer-labels.json').then(r=>r.json())]).then(async ([album,messages])=>{
+  Promise.all([fetch('/data/album.json?v=victor-maria').then(r=>r.json()),fetch('/data/viewer-labels.json').then(r=>r.json())]).then(async ([album,messages])=>{
     const requests=new Set(Array.from(document.fonts,face=>`${face.style} 500 36px ${face.family}`));
-    await Promise.all(Array.from(requests,font=>document.fonts.load(font,'Edu & Ana 2026').catch(()=>{})));
-    function App(){const[open,setOpen]=React.useState(false);return React.createElement(Provider,{locale:'pt',messages,hostname:location.hostname},open?React.createElement(Viewer,{...album,visible:true}):React.createElement('main',{id:'intro'},React.createElement('img',{src:album.sources[0].src,alt:'O álbum de Edu e Ana'}),React.createElement('p',{},'Para Ana'),React.createElement('h1',{},'Edu guardou a história de vocês em um álbum.'),React.createElement('p',{},'30 páginas · 41 fotos · 973 dias de história'),React.createElement('button',{onClick:()=>setOpen(true)},'Abrir o álbum')));}
+    await Promise.all(Array.from(requests,font=>document.fonts.load(font,'Victor & Maria Eduarda 2026').catch(()=>{})));
+    function App(){const[open,setOpen]=React.useState(false);return React.createElement(Provider,{locale:'pt',messages,hostname:location.hostname},open?React.createElement(Viewer,{...album,visible:true}):React.createElement('main',{id:'intro'},React.createElement('img',{src:album.sources[0].src,alt:'O álbum de Victor e Maria Eduarda'}),React.createElement('p',{},'Para Maria Eduarda'),React.createElement('h1',{},'Victor guardou a história de vocês em um álbum.'),React.createElement('p',{},'30 páginas · 41 fotos · 973 dias de história'),React.createElement('button',{onClick:()=>setOpen(true)},'Abrir o álbum')));}
     DOM.createRoot(document.getElementById('album-root')).render(React.createElement(App));
   }).catch(error=>{document.getElementById('album-root').textContent='Não foi possível abrir o álbum.';console.error(error);});
 }]);

diff --git a/LEIA-ME.md b/LEIA-ME.md
@@ -1,4 +1,4 @@
-# Álbum Edu & Ana — visualizador original
+# Álbum Victor & Maria Eduarda — visualizador original
 
 Esta versão usa o visualizador original do álbum, incluindo o livro 3D, suas 30 páginas, fotos, animações e interações. A redistribuição da interface e do conteúdo do álbum foi expressamente autorizada pelo solicitante.
 
